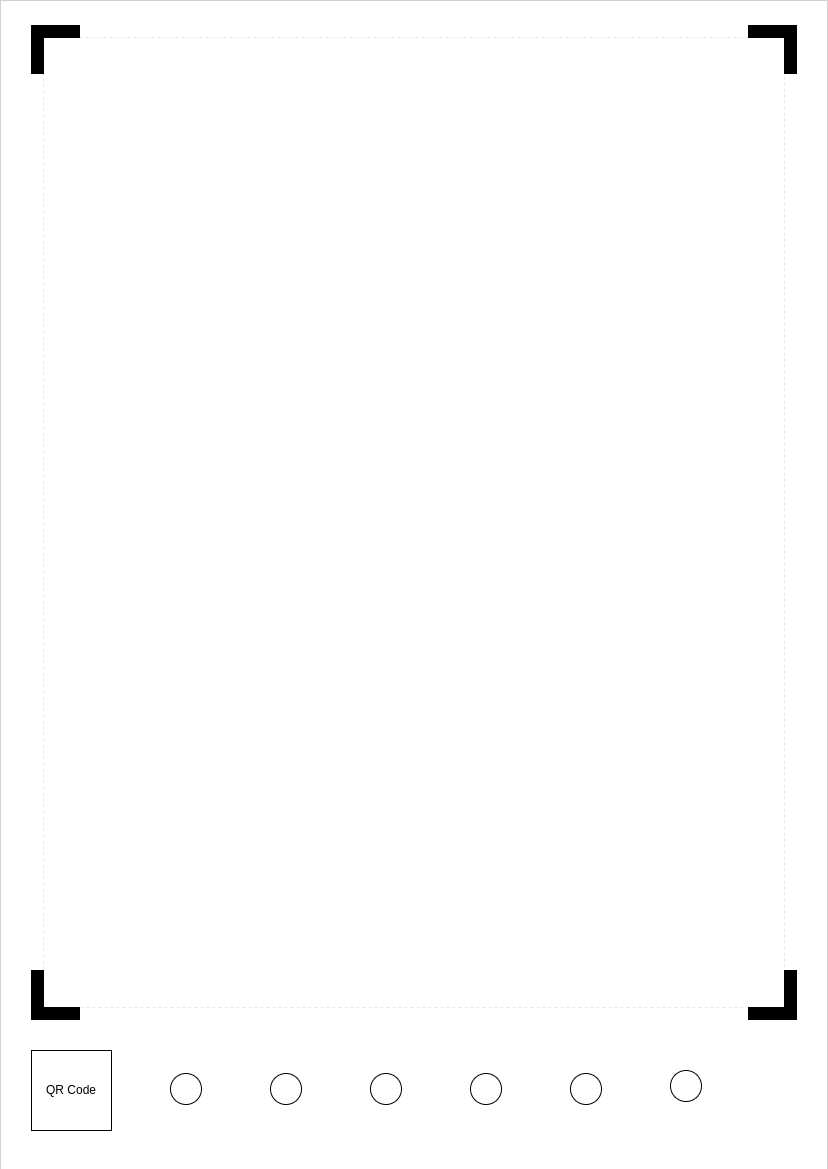
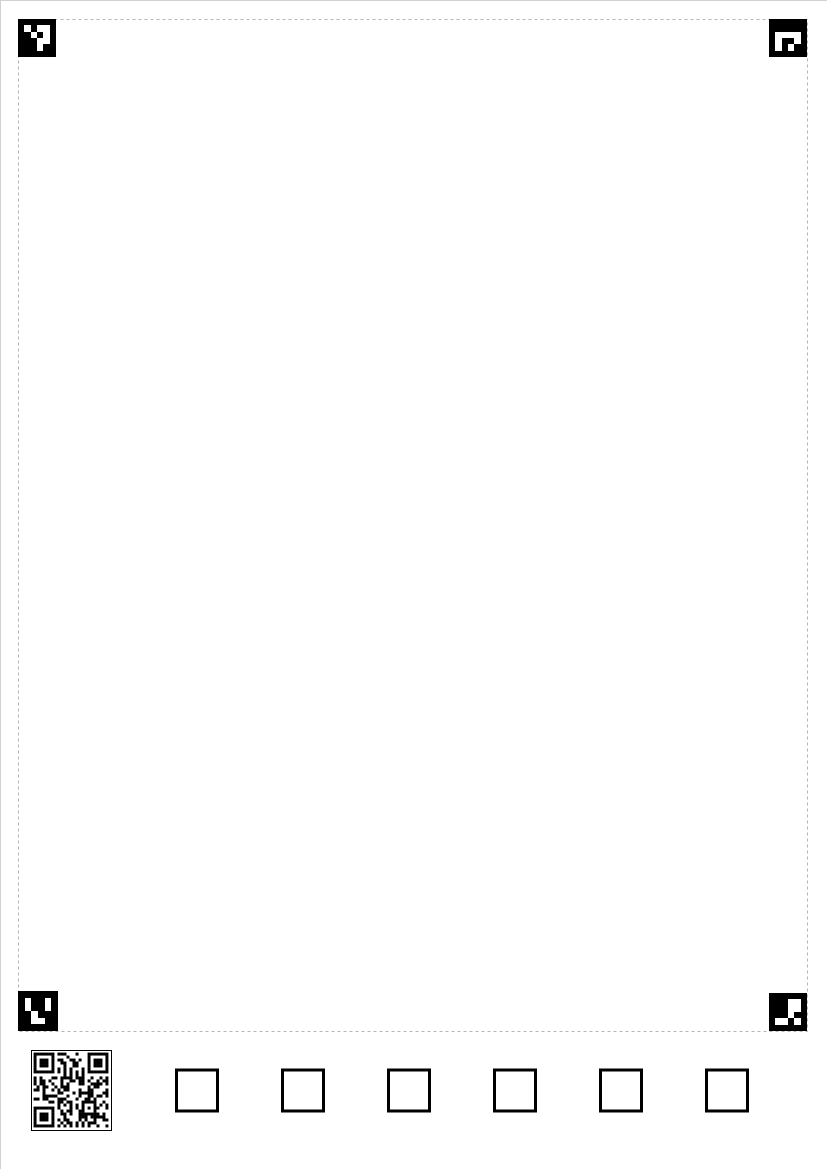
back to squares trimming of service area

diff --git a/main.py b/main.py
@@ -1,5 +1,6 @@
 import numpy as np
 import cv2
+import matplotlib.pyplot as plt
 
 ARUCO_DICT = {
     "DICT_4X4_50": cv2.aruco.DICT_4X4_50,
@@ -46,7 +47,7 @@ def stream_webcam():
         detected_markers = aruco_display(corners, ids, rejected, img)
 
         cv2.imshow("Image", detected_markers)
-        cv2.imshow("Trimmed", trim_by_corners(img, corners, ids))
+        cv2.imshow("Trimmed", trim_writing_area(img, corners, ids))
 
         key = cv2.waitKey(1) & 0xFF
         if key == ord("q"):
@@ -107,32 +108,60 @@ def stretch_polygon_to_rectangle(points, image):
     return warped
 
 
-def trim_by_corners(img, corners, ids):
+def corner_arucos_to_list(corners, ids):
     mm = {}
-    if len(corners) == 4:
-        for i, markerCorner in enumerate(corners):
-            marker_corners = markerCorner.reshape((4, 2))
-            markerID = int(ids[i])
-            mm[markerID] = marker_corners
-        polygon = np.array([mm[0][3], mm[1][2], mm[2][1], mm[3][0]])
+    for i, markerCorner in enumerate(corners):
+        marker_corners = markerCorner.reshape((4, 2))
+        print("marker corner:", markerCorner)
+        marker_id = int(ids[i])
+        mm[marker_id] = marker_corners
+    return mm
+
+
+def trim_service_area(img, corners, ids):
+
+    if 2 in ids and 3 in ids:
+        height, width, _ = img.shape
+        mm = corner_arucos_to_list(corners, ids)
+        polygon = np.array([mm[3][3], mm[2][2], (width - 1, height - 1), (0, height - 1)])
         polygon = polygon.astype(np.float32)
+        mask = np.zeros_like(img)
+        cv2.fillPoly(mask, np.int32([polygon]), (255, 255, 255))
 
-        # Stretch the polygon to a rectangle
-        warped = stretch_polygon_to_rectangle(polygon, img)
+        # Apply the mask to the image
+        masked_img = cv2.bitwise_and(img, mask)
 
-        return warped
+        # Get the bounding rectangle of the polygon
+        x, y, w, h = cv2.boundingRect(np.int32([polygon]))
 
+        # Crop the image using the bounding rectangle
+        crop_img = masked_img[y:y + h, x:x + w]
+        return crop_img
     else:
         return img
 
 
+def trim_writing_area(img, corners, ids):
+    print("Amount of found corners: ", len(corners))
+    if len(corners) == 4:
+        mm = corner_arucos_to_list(corners, ids)
+        polygon = np.array([mm[0][3], mm[1][2], mm[2][1], mm[3][0]])
+        polygon = polygon.astype(np.float32)
+        # Stretch the polygon to a rectangle
+        warped = stretch_polygon_to_rectangle(polygon, img)
+        return warped
+    else:
+        return img
+
+
+print("hi")
 aruco_type = "DICT_4X4_50"
 
 arucoDict = cv2.aruco.getPredefinedDictionary(ARUCO_DICT[aruco_type])
 
 arucoParams = cv2.aruco.DetectorParameters()
 
-img = cv2.imread("blanks/blank_thicker.png")
+img = cv2.imread("blanks/blank.png")
 
 h, w, _ = img.shape
 width = 700
@@ -141,34 +170,30 @@ img = cv2.resize(img, (width, height), interpolation=cv2.INTER_CUBIC)
 
 corners, ids, rejected = cv2.aruco.detectMarkers(img, arucoDict, parameters=arucoParams)
 
-
-##cv2.imshow("Image", detected_markers)
-##cv2.imshow("Trimmed", trim_by_corners(img, corners, ids))
+detected_markers = aruco_display(corners, ids, rejected, img)
+cv2.imshow("Image", detected_markers)
+# cv2.imshow("Trimmed", trim_service_area(img, corners, ids))
 # stream_webcam()
+img = trim_service_area(img, corners, ids)
 gray_scale = cv2.cvtColor(img, cv2.COLOR_BGR2GRAY)
 th1, img_bin = cv2.threshold(gray_scale, 150, 225, cv2.THRESH_BINARY)
 img_bin = ~img_bin
 
-gray_blurred = cv2.medianBlur(img_bin, 5)
 
-# Apply Hough transform on the blurred image.
-detected_circles = cv2.HoughCircles(gray_blurred,
-                                    cv2.HOUGH_GRADIENT, 1, 20, param1=200,
-                                    param2=34, minRadius=10, maxRadius=90)
+### selecting min size as 15 pixels
+line_min_width = 15
+kernal_h = np.ones((1, line_min_width), np.uint8)
+kernal_v = np.ones((line_min_width, 1), np.uint8)
 
-# Draw circles that are detected.
-if detected_circles is not None:
+img_bin_h = cv2.morphologyEx(img_bin, cv2.MORPH_OPEN, kernal_h)
+img_bin_v = cv2.morphologyEx(img_bin, cv2.MORPH_OPEN, kernal_v)
+img_bin_final = img_bin_h | img_bin_v
+# plt.imshow(img_bin_final, cmap='gray')
+# plt.show()
 
-    # Convert the circle parameters a, b and r to integers.
-    detected_circles = np.uint16(np.around(detected_circles))
+_, labels, stats, _ = cv2.connectedComponentsWithStats(~img_bin_final, connectivity=8, ltype=cv2.CV_32S)
+for x, y, w, h, area in stats[2:]:
+    cv2.rectangle(img, (x, y), (x + w, y + h), (0, 255, 0), 2)
 
-    for pt in detected_circles[0, :]:
-        a, b, r = pt[0], pt[1], pt[2]
-
-        # Draw the circumference of the circle.
-        cv2.circle(img, (a, b), r, (0, 255, 0), 2)
-
-        # Draw a small circle (of radius 1) to show the center.
-        cv2.circle(img, (a, b), 1, (0, 0, 255), 3)
-    cv2.imshow("Detected Circle", img)
-    cv2.waitKey(0)
+cv2.imshow("S", img)
+cv2.waitKey(0)
